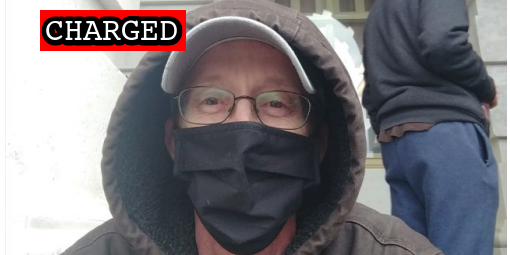
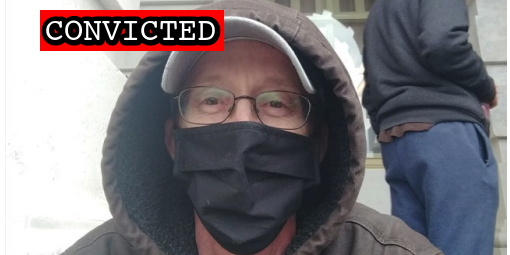
Latest import

Changed region(s): [[0.1176, 0.0275, 0.4412, 0.2196]]

diff --git a/docs/_suspects/jeffrey-munger.md b/docs/_suspects/jeffrey-munger.md
@@ -4,15 +4,17 @@ lastName: Munger
 hashtag:
 aka:
 residence: Indiana
-status: Charged
+status: Convicted
 date: 2022-03-11
 charged: 2022-03-11
 indicted:
-convicted:
+convicted: 2022-05-20
+acquitted:
 sentenced:
 dismissed:
 deceased:
-plea_hearing:
+plea_hearing: 2022-05-20
+trial_date:
 sentencing:
 age:
 occupation:
@@ -34,8 +36,14 @@ published: true
 caseNumber: 1:22-mj-62
 videos:
 charges:
+- code: 40 USC § 5104(e)(2)(G)
+  title: Parading, demonstrating or picketing in a Capitol building
+  url: https://www.law.cornell.edu/uscode/text/40/5104
+  felony: false
 sentence:
 ---
 - [News Report](https://www.indystar.com/story/news/crime/2022/03/24/fbi-jeffrey-munger-climbed-through-u-s-capitol-window-during-riot/7157433001/)
 - [Complaint](https://www.justice.gov/usao-dc/case-multi-defendant/file/1486516/download)
 - [Statement of Facts](https://www.justice.gov/usao-dc/case-multi-defendant/file/1487226/download)
+- [Plea Agreement](https://www.justice.gov/usao-dc/case-multi-defendant/file/1507451/download)
+- [Statement of Offense](https://www.justice.gov/usao-dc/case-multi-defendant/file/1507456/download)

diff --git a/docs/_suspects/benjamin-robinson.md b/docs/_suspects/benjamin-robinson.md
@@ -1,0 +1,43 @@
+---
+name: Benjamin Robinson
+lastName: Robinson
+hashtag:
+aka:
+residence:
+status: Charged
+date: 2022-05-16
+charged: 2022-05-16
+indicted:
+convicted:
+acquitted:
+sentenced:
+dismissed:
+deceased:
+plea_hearing:
+trial_date:
+sentencing:
+age:
+occupation:
+affiliations:
+jurisdiction: Federal
+image: /images/preview/benjamin-robinson.jpg
+suspect: benjamin-robinson.jpg
+booking:
+courtroom:
+courthouse:
+raid:
+perpwalk:
+quote:
+title: Benjamin Robinson charged on May 16th, 2022
+description: Click for latest case details. Suspects innocent until proven guilty.
+author: seditiontrack
+layout: suspect
+published: false
+caseNumber: 1:22-mj-110
+videos:
+charges:
+sentence:
+---
+- [News Report]()
+- [Complaint](https://www.justice.gov/usao-dc/case-multi-defendant/file/1507546/download)
+- [Statement of Facts](https://www.justice.gov/usao-dc/case-multi-defendant/file/1507551/download)

diff --git a/docs/_suspects/brittany-robinson.md b/docs/_suspects/brittany-robinson.md
@@ -1,0 +1,43 @@
+---
+name: Brittany Robinson
+lastName: Robinson
+hashtag:
+aka:
+residence:
+status: Charged
+date: 2022-05-16
+charged: 2022-05-16
+indicted:
+convicted:
+acquitted:
+sentenced:
+dismissed:
+deceased:
+plea_hearing:
+trial_date:
+sentencing:
+age:
+occupation:
+affiliations:
+jurisdiction: Federal
+image: /images/preview/brittany-robinson.jpg
+suspect: brittany-robinson.jpg
+booking:
+courtroom:
+courthouse:
+raid:
+perpwalk:
+quote:
+title: Brittany Robinson charged on May 16th, 2022
+description: Click for latest case details. Suspects innocent until proven guilty.
+author: seditiontrack
+layout: suspect
+published: false
+caseNumber: 1:22-mj-110
+videos:
+charges:
+sentence:
+---
+- [News Report]()
+- [Complaint](https://www.justice.gov/usao-dc/case-multi-defendant/file/1507566/download)
+- [Statement of Facts](https://www.justice.gov/usao-dc/case-multi-defendant/file/1507571/download)

diff --git a/docs/_suspects/linwood-robinson.md b/docs/_suspects/linwood-robinson.md
@@ -1,0 +1,43 @@
+---
+name: Linwood Robinson
+lastName: Robinson
+hashtag:
+aka:
+residence:
+status: Charged
+date: 2022-05-16
+charged: 2022-05-16
+indicted:
+convicted:
+acquitted:
+sentenced:
+dismissed:
+deceased:
+plea_hearing:
+trial_date:
+sentencing:
+age:
+occupation:
+affiliations:
+jurisdiction: Federal
+image: /images/preview/linwood-robinson.jpg
+suspect: linwood-robinson.jpg
+booking:
+courtroom:
+courthouse:
+raid:
+perpwalk:
+quote:
+title: Linwood Robinson charged on May 16th, 2022
+description: Click for latest case details. Suspects innocent until proven guilty.
+author: seditiontrack
+layout: suspect
+published: false
+caseNumber: 1:22-mj-110
+videos:
+charges:
+sentence:
+---
+- [News Report]()
+- [Complaint](https://www.justice.gov/usao-dc/case-multi-defendant/file/1507556/download)
+- [Statement of Facts](https://www.justice.gov/usao-dc/case-multi-defendant/file/1507561/download)

diff --git a/docs/_suspects/chadwick-clifton.md b/docs/_suspects/chadwick-clifton.md
@@ -1,0 +1,43 @@
+---
+name: Chadwick Clifton
+lastName: Clifton
+hashtag:
+aka:
+residence:
+status: Charged
+date: 2020-05-16
+charged: 2020-05-16
+indicted:
+convicted:
+acquitted:
+sentenced:
+dismissed:
+deceased:
+plea_hearing:
+trial_date:
+sentencing:
+age:
+occupation:
+affiliations:
+jurisdiction: Federal
+image: /images/preview/chadwick-clifton.jpg
+suspect: chadwick-clifton.jpg
+booking:
+courtroom:
+courthouse:
+raid:
+perpwalk:
+quote:
+title: Chadwick Clifton charged on May 16th, 2020
+description: Click for latest case details. Suspects innocent until proven guilty.
+author: seditiontrack
+layout: suspect
+published: false
+caseNumber: 1:22-mj-109
+videos:
+charges:
+sentence:
+---
+- [News Report]()
+- [Statement of Facts](https://www.justice.gov/usao-dc/case-multi-defendant/file/1507421/download)
+- [Complaint](https://www.justice.gov/usao-dc/case-multi-defendant/file/1507426/download)

diff --git a/docs/_suspects/michael-pomeroy.md b/docs/_suspects/michael-pomeroy.md
@@ -1,0 +1,43 @@
+---
+name: Michael Pomeroy
+lastName: Pomeroy
+hashtag:
+aka:
+residence:
+status: Charged
+date: 2022-05-11
+charged: 2022-05-11
+indicted:
+convicted:
+acquitted:
+sentenced:
+dismissed:
+deceased:
+plea_hearing:
+trial_date:
+sentencing:
+age:
+occupation:
+affiliations:
+jurisdiction: Federal
+image: /images/preview/michael-pomeroy.jpg
+suspect: michael-pomeroy.jpg
+booking:
+courtroom:
+courthouse:
+raid:
+perpwalk:
+quote:
+title: Michael Pomeroy charged on May 11th, 2022
+description: Click for latest case details. Suspects innocent until proven guilty.
+author: seditiontrack
+layout: suspect
+published: false
+caseNumber: 1:22-mj-104
+videos:
+charges:
+sentence:
+---
+- [News Report]()
+- [Complaint](https://www.justice.gov/usao-dc/case-multi-defendant/file/1507521/download)
+- [Statement of Facts](https://www.justice.gov/usao-dc/case-multi-defendant/file/1507526/download)

diff --git a/docs/_suspects/lynnwood-nester.md b/docs/_suspects/lynnwood-nester.md
@@ -1,0 +1,43 @@
+---
+name: Lynnwood Nester
+lastName: Nester
+hashtag:
+aka:
+residence:
+status: Charged
+date: 2022-05-11
+charged: 2022-05-11
+indicted:
+convicted:
+acquitted:
+sentenced:
+dismissed:
+deceased:
+plea_hearing:
+trial_date:
+sentencing:
+age:
+occupation:
+affiliations:
+jurisdiction: Federal
+image: /images/preview/lynnwood-nester.jpg
+suspect: lynnwood-nester.jpg
+booking:
+courtroom:
+courthouse:
+raid:
+perpwalk:
+quote:
+title: Lynnwood Nester charged on May 11th, 2022
+description: Click for latest case details. Suspects innocent until proven guilty.
+author: seditiontrack
+layout: suspect
+published: false
+caseNumber: 1:22-mj-104
+videos:
+charges:
+sentence:
+---
+- [News Report]()
+- [Complaint](https://www.justice.gov/usao-dc/case-multi-defendant/file/1507511/download)
+- [Statement of Facts](https://www.justice.gov/usao-dc/case-multi-defendant/file/1507516/download)

diff --git a/docs/_suspects/david-johnston.md b/docs/_suspects/david-johnston.md
@@ -1,0 +1,43 @@
+---
+name: David Johnston
+lastName: Johnston
+hashtag:
+aka:
+residence:
+status: Charged
+date: 2020-05-16
+charged: 2020-05-16
+indicted:
+convicted:
+acquitted:
+sentenced:
+dismissed:
+deceased:
+plea_hearing:
+trial_date:
+sentencing:
+age:
+occupation:
+affiliations:
+jurisdiction: Federal
+image: /images/preview/david-johnston.jpg
+suspect: david-johnston.jpg
+booking:
+courtroom:
+courthouse:
+raid:
+perpwalk:
+quote:
+title: David Johnston charged on May 16th, 2020
+description: Click for latest case details. Suspects innocent until proven guilty.
+author: seditiontrack
+layout: suspect
+published: false
+caseNumber: 1:22-mj-109
+videos:
+charges:
+sentence:
+---
+- [News Report]()
+- [Complaint](https://www.justice.gov/usao-dc/case-multi-defendant/file/1507411/download)
+- [Statement of Facts](https://www.justice.gov/usao-dc/case-multi-defendant/file/1507416/download)

diff --git a/docs/_suspects/brian-korte.md b/docs/_suspects/brian-korte.md
@@ -1,0 +1,43 @@
+---
+name: Brian Korte
+lastName: Korte
+hashtag:
+aka:
+residence:
+status: Charged
+date: 2020-05-11
+charged: 2020-05-11
+indicted:
+convicted:
+acquitted:
+sentenced:
+dismissed:
+deceased:
+plea_hearing:
+trial_date:
+sentencing:
+age:
+occupation:
+affiliations:
+jurisdiction: Federal
+image: /images/preview/brian-korte.jpg
+suspect: brian-korte.jpg
+booking:
+courtroom:
+courthouse:
+raid:
+perpwalk:
+quote:
+title: Brian Korte charged on May 11th, 2020
+description: Click for latest case details. Suspects innocent until proven guilty.
+author: seditiontrack
+layout: suspect
+published: false
+caseNumber: 1:22-mj-104
+videos:
+charges:
+sentence:
+---
+- [News Report]()
+- [Complaint](https://www.justice.gov/usao-dc/case-multi-defendant/file/1507501/download)
+- [Statement of Facts](https://www.justice.gov/usao-dc/case-multi-defendant/file/1507506/download)
